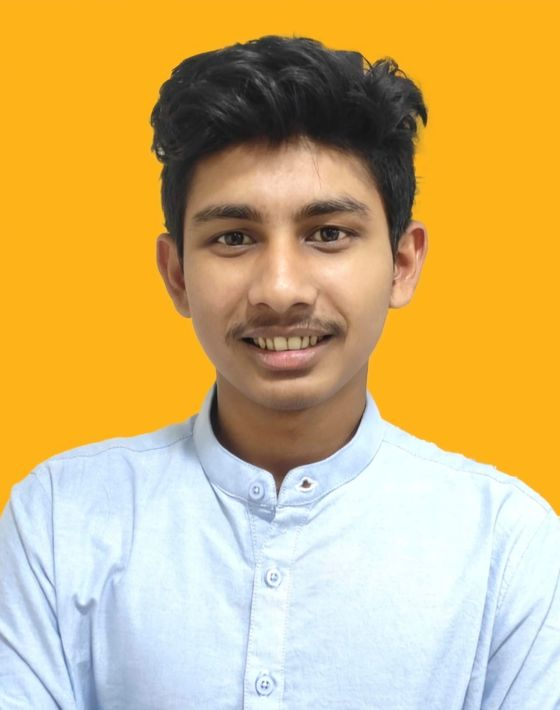
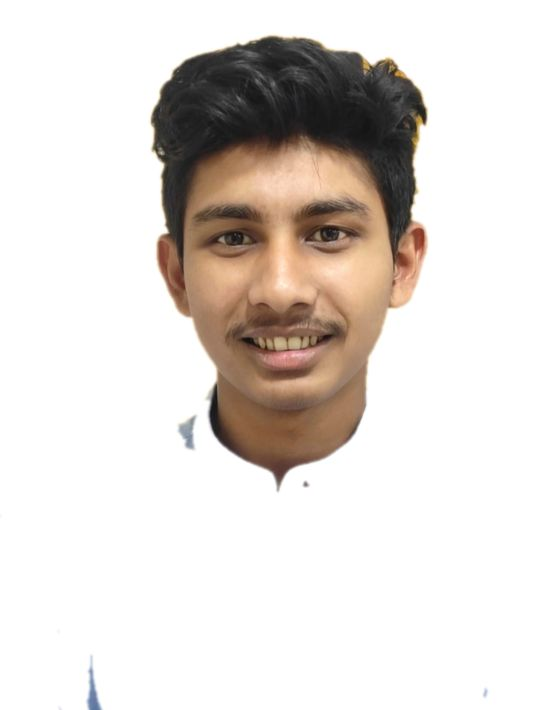
Team slider: horizontal dots, wider photos, white backgrounds

diff --git a/public/css/06-sections.css b/public/css/06-sections.css
@@ -43,6 +43,8 @@ blockquote{font-size:var(--font-size-large);font-weight:500} .who{display:flex;g
 .fb-src .i{width:1rem;height:1rem;color:#1877F2}
 /* Slider controls row: previous arrow, dots, next arrow. */
 .cc{display:flex;justify-content:center;align-items:center;gap:.75rem;margin-top:1.5rem}
+/* Dots stay in one horizontal row between the arrows. */
+.dots{display:flex;align-items:center}
 /* Slider dots. The clickable area is bigger than the visible dot (easier to tap). */
 .dot{width:1.75rem;height:2.75rem;display:grid;place-items:center;background:none;border:0;padding:0;cursor:pointer}
 .dot::before{content:"";width:.625rem;height:.625rem;border-radius:999px;background:color-mix(in srgb,var(--color-text-muted) 40%,transparent);transition:all var(--motion-duration-normal) var(--motion-easing)}
@@ -64,7 +66,7 @@ blockquote{font-size:var(--font-size-large);font-weight:500} .who{display:flex;g
 .map{position:relative;display:block;overflow:hidden;min-height:22rem;border-radius:var(--radius-card);border:1px solid var(--color-border);background:var(--color-section-alt-background);transition:transform var(--motion-duration-normal) var(--motion-easing),box-shadow var(--motion-duration-normal) var(--motion-easing),border-color var(--motion-duration-normal)}
 /* TEAM cards (inside the same carousel layout as the reviews slider). */
 .team p{color:var(--color-text-muted);font-size:var(--font-size-small)} .team .card{text-align:center;display:grid;gap:.9rem;justify-items:center;padding:1.25rem 1rem}
-.team-photo{width:100%;max-width:13rem;aspect-ratio:4/5;border-radius:var(--radius-inner);overflow:hidden;background:var(--color-surface-alt, #eee)}
+.team-photo{width:100%;aspect-ratio:4/5;border-radius:var(--radius-inner);overflow:hidden;background:var(--color-surface-alt, #eee)}
 .team-photo img{width:100%;height:100%;object-fit:cover;display:block}
 .team .role{font-weight:700;color:var(--color-accent-text);font-size:var(--font-size-small)}
 .team .slide>.tm{flex:1}   /* all visible team cards stretch to the SAME height */
